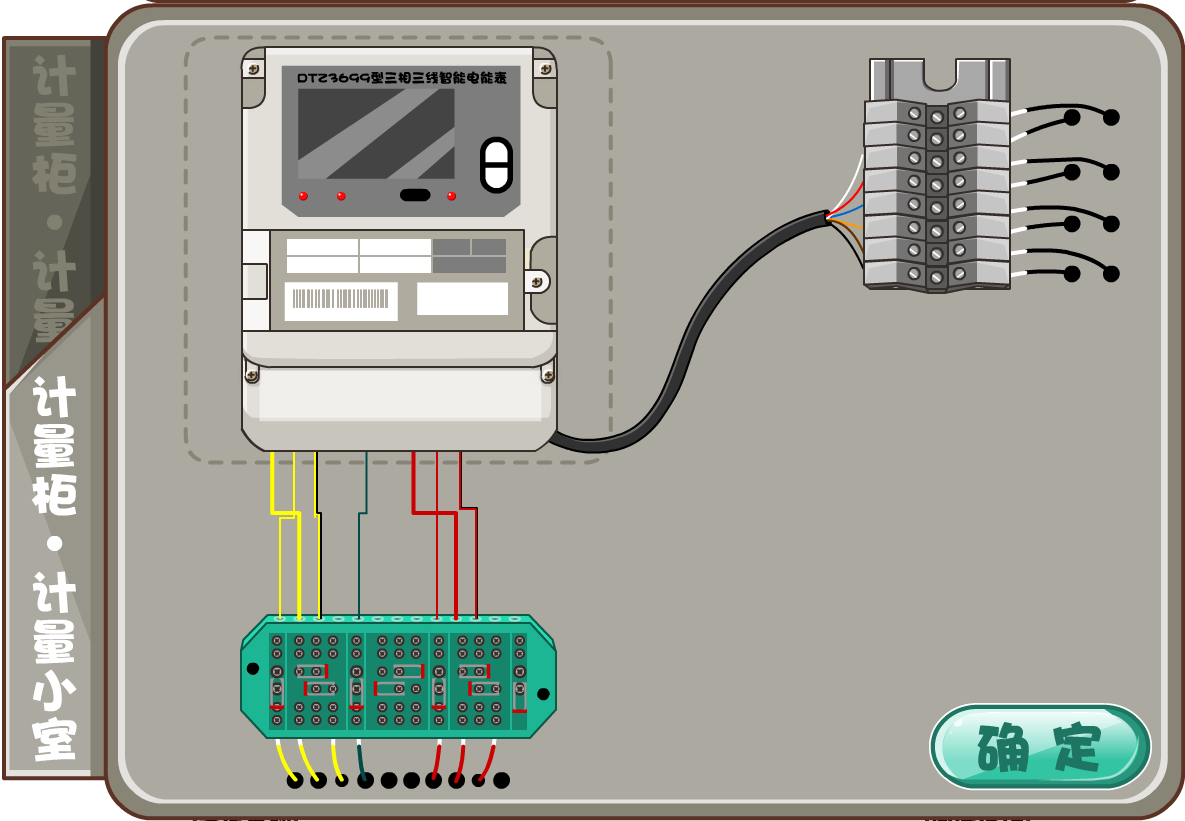
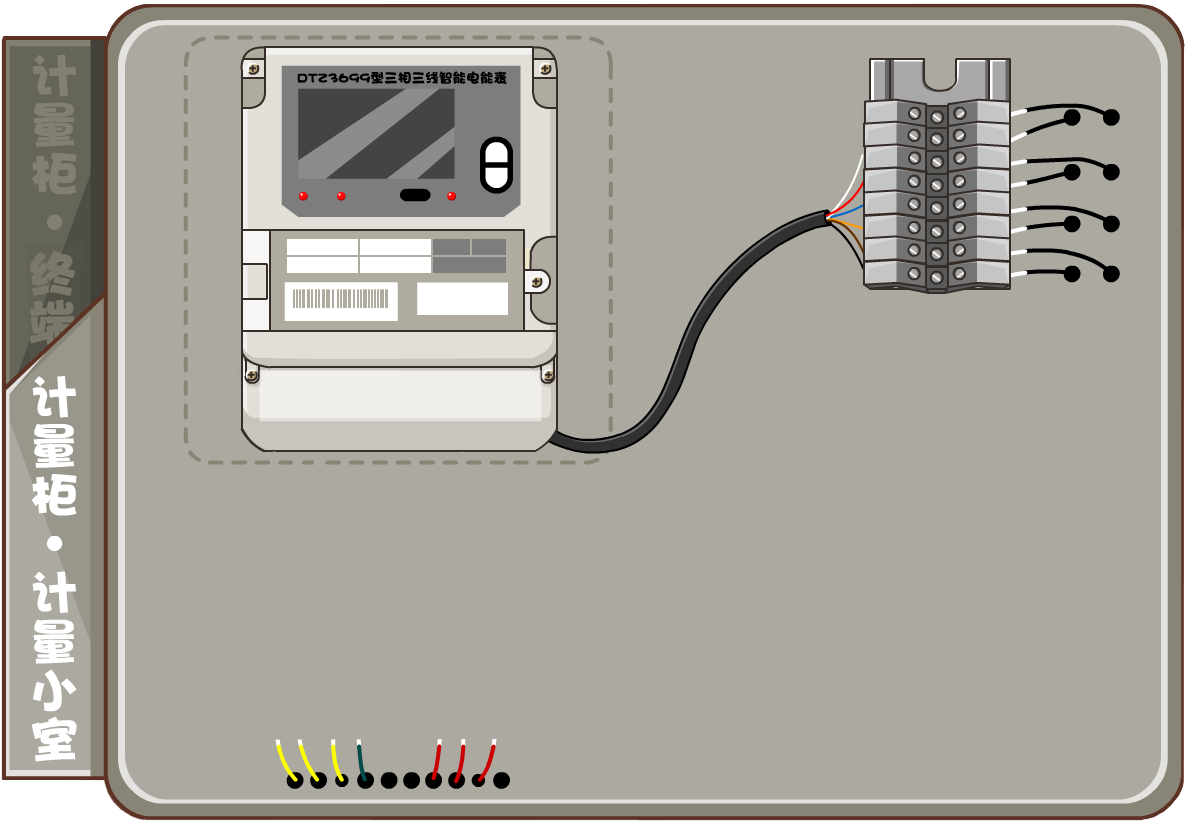
fix(canvas): 调整接线盒和开关位置及电表孔尺寸以优化布局

diff --git a/frontend/src/components/HighVoltage/HMeteringRoomCanvas.vue b/frontend/src/components/HighVoltage/HMeteringRoomCanvas.vue
@@ -115,23 +115,23 @@ const DROP_ZONE = { x: 0.15, y: 0.04, w: 0.37, h: 0.53 }
 
 // ★ 接线盒（左下角贴底，宽固定为画布宽的 1/2，高度按图片比例 auto，用户按背景图微调）
 //   步骤5（未挂表）起显示，直到背景图切换为盖盖子的计量小室后隐藏
-const JUNCTION_BOX = { x: 0.2, y: 0.742, w: 0.27 }
+const JUNCTION_BOX = { x: 0.202, y: 0.746, w: 0.27 }
 
 // ★ 接线盒开关（10 个，一行排列：竖 双横 竖 双横 竖 双横 竖，竖作为双横的间隔）
 //   orient: v=竖(顺时针90°), hU=上排横(0°), hD=下排横(180°)
 //   target: 目标状态（按数组顺序 1/4/5 断开 off、2/3/6/7 闭合 on，8/9/10 待用户补充）
 //   on/off: 两个状态各自独立的坐标（相对接线盒左上角的比率 0~1），切换时直接定位173
 const SWITCHES = [
-  { orient: 'v', target: 'off', on: { x: 0.143, y: 0.41 }, off: { x: 0.143, y: 0.5 } },
+  { orient: 'v', target: 'off', on: { x: 0.145, y: 0.41 }, off: { x: 0.145, y: 0.55 } },
   { orient: 'hU', target: 'on', on: { x: 0.173, y: 0.4 }, off: { x: 0.225, y: 0.4 } },
-  { orient: 'hD', target: 'on', on: { x: 0.314, y: 0.66 }, off: { x: 0.26, y: 0.66 } },
-  { orient: 'v', target: 'off', on: { x: 0.394, y: 0.41 }, off: { x: 0.394, y: 0.5 } },
+  { orient: 'hD', target: 'on', on: { x: 0.314, y: 0.67 }, off: { x: 0.26, y: 0.67 } },
+  { orient: 'v', target: 'off', on: { x: 0.395, y: 0.41 }, off: { x: 0.395, y: 0.55 } },
   { orient: 'hU', target: 'on', on: { x: 0.433, y: 0.4 }, off: { x: 0.485, y: 0.4 } },
-  { orient: 'hD', target: 'on', on: { x: 0.574, y: 0.66 }, off: { x: 0.52, y: 0.66 } },
-  { orient: 'v', target: 'off', on: { x: 0.654, y: 0.41 }, off: { x: 0.654, y: 0.5 } },
+  { orient: 'hD', target: 'on', on: { x: 0.574, y: 0.67 }, off: { x: 0.52, y: 0.67 } },
+  { orient: 'v', target: 'off', on: { x: 0.654, y: 0.41 }, off: { x: 0.654, y: 0.55 } },
   { orient: 'hU', target: 'on', on: { x: 0.688, y: 0.4 }, off: { x: 0.74, y: 0.4 } },
-  { orient: 'hD', target: 'on', on: { x: 0.829, y: 0.66 }, off: { x: 0.775, y: 0.66 } },
-  { orient: 'v', target: 'off', on: { x: 0.907, y: 0.41 }, off: { x: 0.907, y: 0.5 } }
+  { orient: 'hD', target: 'on', on: { x: 0.829, y: 0.67 }, off: { x: 0.775, y: 0.67 } },
+  { orient: 'v', target: 'off', on: { x: 0.909, y: 0.41 }, off: { x: 0.909, y: 0.55 } }
 ]
 // 开关图宽（相对接线盒宽度的比率），高度按图片比例 auto（不压缩）
 const SWITCH_SIZE = { w: 0.1 }
@@ -149,20 +149,20 @@ const BOX_HOLES = { count: 13, x0: 0.13, x1: 0.866, y: 0.03, size: 0.05 }
 // ★ 电表底部 9 孔（相对画布比率）：3 组等腰三角形水平排列在挂表热区底部中间
 //   编号从右往左：右组=孔1-3、中组=孔4-6、左组=孔7-9；组内 k=1 左底、k=2 顶点(上)、k=3 右底
 const METER_HOLES = {
-  cx: 0.31,
-  spanW: 0.183,
-  y0: 0.535,
-  triH: 0.007,
+  cx: 0.309,
+  spanW: 0.176,
+  y0: 0.528,
+  triH: 0.005,
   size: 0.015
 }
 
 // ★ 7 根导线固定配对（接线顺序不限）；双色线（红黑/黄黑）用两条半宽线并排模拟
 const WIRE_CONNECTIONS = [
-  { spec: '4.0红黑', boxHole: 3, meterHole: 3, pathColor: '#000000', secondColor: '#d40000' },
+  { spec: '4.0红黑', boxHole: 3, meterHole: 3, pathColor: '#e60000', secondColor: '#000000' },
   { spec: '4.0红', boxHole: 4, meterHole: 1, pathColor: '#e60000' },
   { spec: '2.5红', boxHole: 5, meterHole: 2, pathColor: '#e60000' },
   { spec: '2.5绿', boxHole: 9, meterHole: 5, pathColor: '#00a650' },
-  { spec: '4.0黄黑', boxHole: 11, meterHole: 9, pathColor: '#000000', secondColor: '#FFFF00' },
+  { spec: '4.0黄黑', boxHole: 11, meterHole: 9, pathColor: '#FFFF00', secondColor: '#000000' },
   { spec: '4.0黄', boxHole: 12, meterHole: 7, pathColor: '#FFFF00' },
   { spec: '2.5黄', boxHole: 13, meterHole: 8, pathColor: '#FFFF00' }
 ]
@@ -203,12 +203,12 @@ const TERMINAL_BLOCK = {
 
 // 电表 16 孔（编号 13-28，同一水平线；13-15 大间隔、16-28 小间隔、15→16 过渡间隔占位）
 const METER_TERMINALS = {
-  x0: 0.231,
-  y: 0.429,
-  gapBig: 0.018,
-  gapSmall: 0.01254,
-  gapMid: 0.0255,
-  size: 0.005
+  x0: 0.2315,
+  y: 0.4225,
+  gapBig: 0.0175,
+  gapSmall: 0.01227,
+  gapMid: 0.0254,
+  size: 0.009
 }
 
 // 芯点（相对信号线图片比率，每个点独立 x/y 坐标，后期单独调整）
@@ -595,11 +595,17 @@ function makeWirePaths(from, to, wire) {
   if (!wire.secondColor) {
     return [mk(from.x, from.y, to.x, to.y, wire.pathColor, w)]
   }
+  // 法向统一为屏幕绝对基准：pathColor 恒偏移在屏幕左侧（法向 x 分量 ≤ 0），
+  // secondColor 在右侧——不随接线起点/方向变化（跟随与完成绘制一致）
   const dx = to.x - from.x
   const dy = to.y - from.y
   const len = Math.hypot(dx, dy) || 1
-  const nx = -dy / len
-  const ny = dx / len
+  let nx = -dy / len
+  let ny = dx / len
+  if (nx > 0) {
+    nx = -nx
+    ny = -ny
+  }
   const off = thin / 2
   return [
     mk(
@@ -964,7 +970,8 @@ function buildMeterTerminals() {
   const w = leafer.width
   const h = leafer.height
   const y = h * METER_TERMINALS.y
-  const sz = Math.max(w * METER_TERMINALS.size, 10)
+  // 热区大小与调试值（w * size）一致，不加最小下限
+  const sz = w * METER_TERMINALS.size
   let x = w * METER_TERMINALS.x0
   for (let n = 13; n <= 28; n++) {
     const rect = new Rect({
